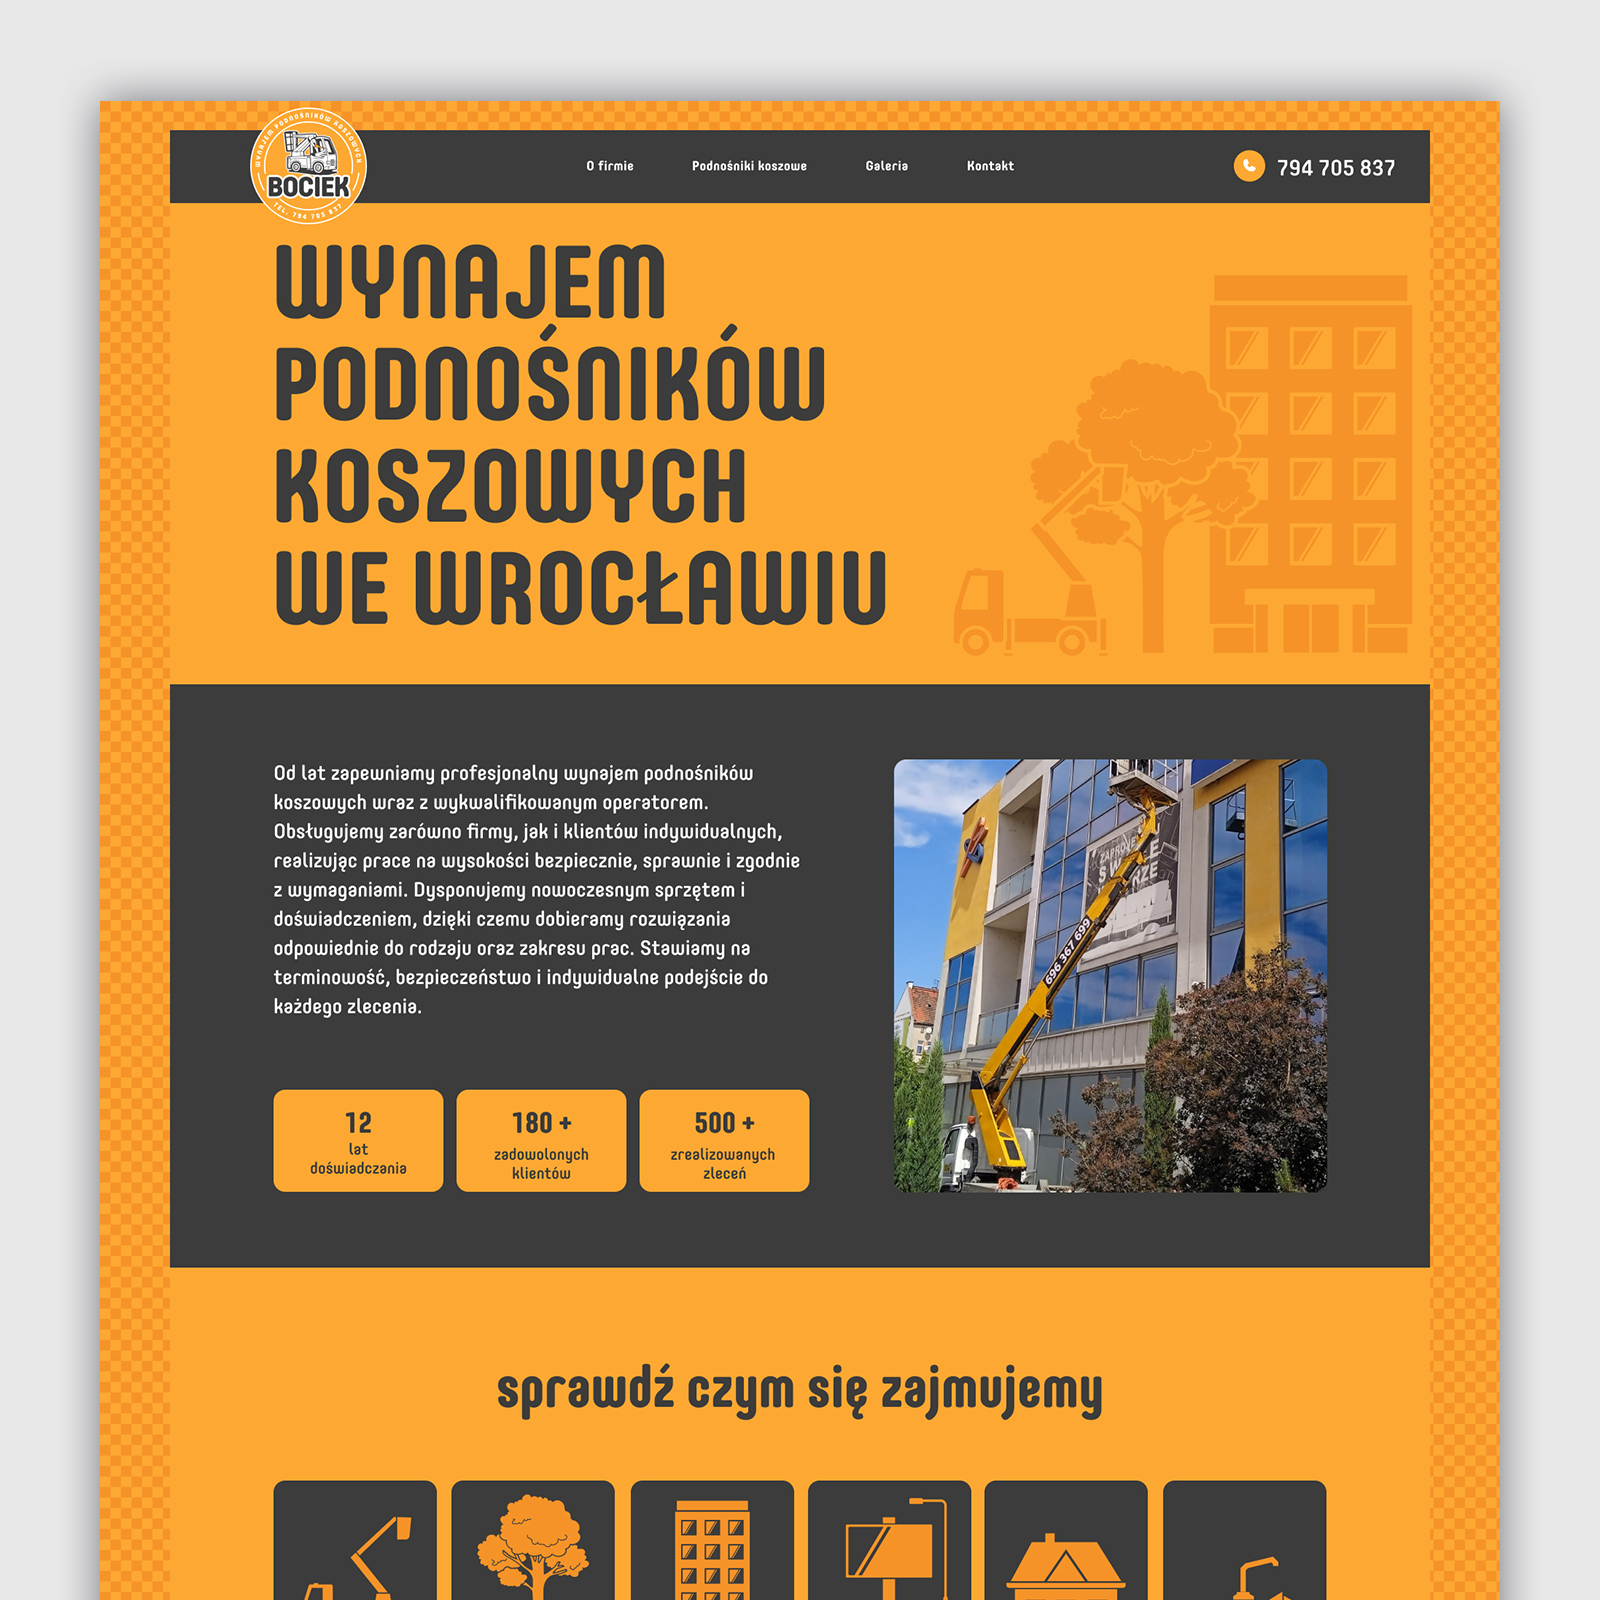
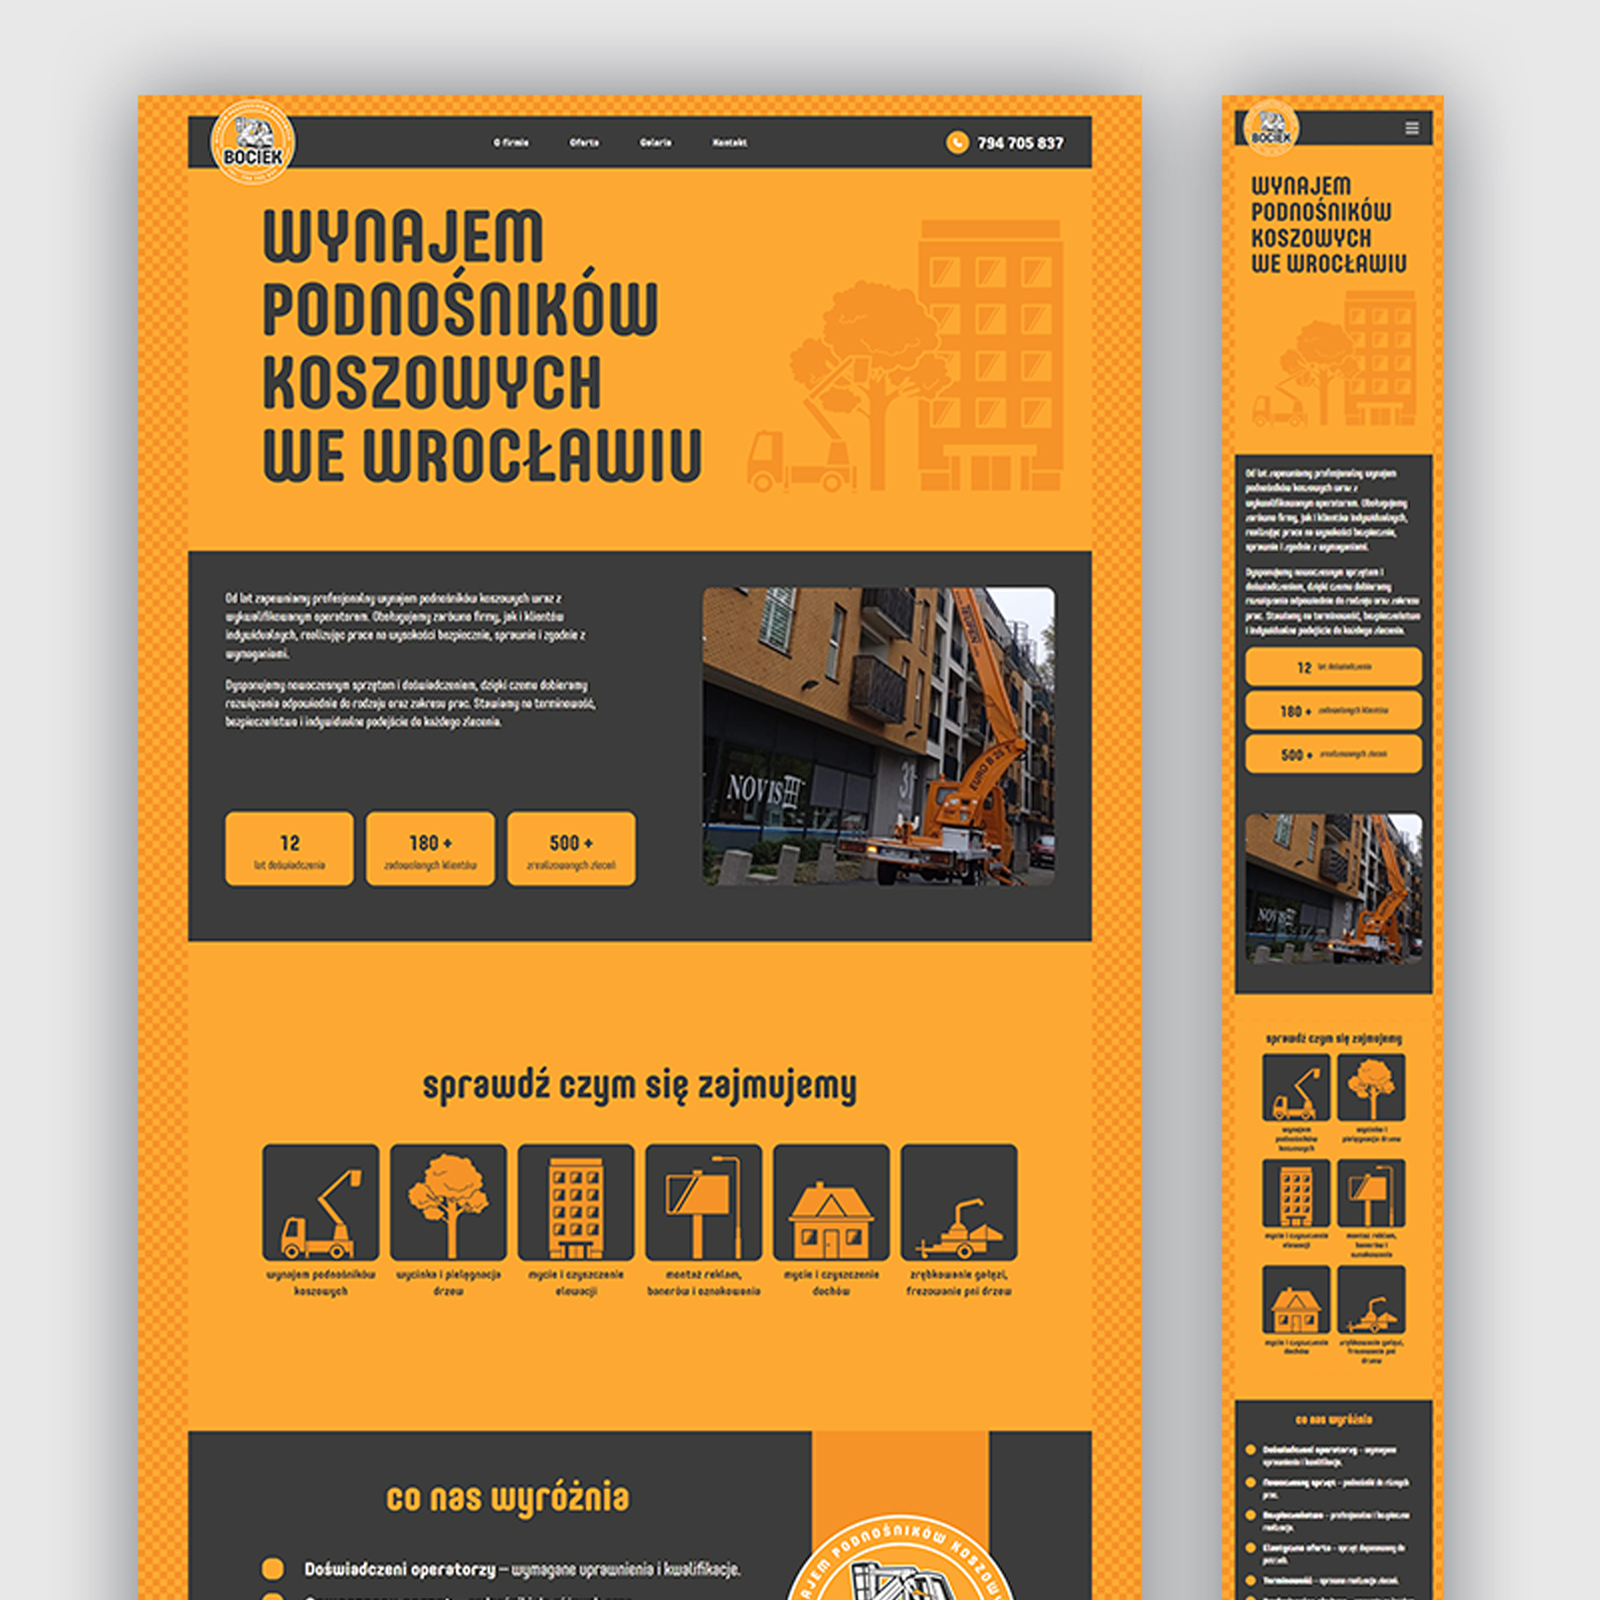
podnośnik koszowy: usunięty kafel #5, aktualizacja grafik; PRD v2.1

diff --git a/js/projects.js b/js/projects.js
@@ -47,7 +47,7 @@ window.PROJECTS = [
     desc: "Przygotowanie kompleksowej identyfikacji wizualnej oraz serwisu internetowego dla firmy eneon, działającej w obszarze inteligentnej energetyki. Projekt obejmował opracowanie logo, materiałów brandingowych, opakowań i druków firmowych oraz zaprojektowanie strony internetowej prezentującej ofertę i produkty marki. Całość buduje spójny, nowoczesny wizerunek łączący ekologię z technologią.",
     desc_en: "Development of a complete visual identity and website for eneon, a company operating in the field of intelligent energy. The project covered logo design, branding materials, packaging and corporate print, as well as a website presenting the brand's offer and products. Together it builds a consistent, modern image combining ecology with technology." },
   { id: 10, img: "images/podnosnik-koszowy/miniatura.jpg", year: "2026", layout: "podnosnik",
-    gallery: ["images/podnosnik-koszowy/1.jpg", "images/podnosnik-koszowy/2.jpg", "images/podnosnik-koszowy/3.jpg", "images/podnosnik-koszowy/4.jpg", "images/podnosnik-koszowy/5.jpg"],
+    gallery: ["images/podnosnik-koszowy/1.jpg", "images/podnosnik-koszowy/2.jpg", "images/podnosnik-koszowy/3.jpg", "images/podnosnik-koszowy/4.jpg"],
     title: "podnośnik koszowy",   tag: "Identyfikacja i one-pager", role: "Branding, DTP, Web", klient: "BOCIEK",
     title_en: "aerial work platform",      tag_en: "Brand identity & one-pager", role_en: "Branding, DTP, Web", klient_en: "BOCIEK",
     desc: "Projekt identyfikacji wizualnej dla firmy BOCIEK (wynajem podnośników koszowych) — obejmujący logo, materiały drukowane oraz serwis internetowy w formie one-pagera. Całość buduje spójny, rozpoznawalny wizerunek marki, łącząc energetyczną kolorystykę z czytelnym, nowoczesnym layoutem.",

diff --git a/PRD.md b/PRD.md
@@ -1,6 +1,6 @@
 # PRD — Portfolio graficzne 2 (Tomasz Michalik)
 
-**Dokument wymagań produktowych** · wersja 2.0 · status: live (uzupełnianie projektów)
+**Dokument wymagań produktowych** · wersja 2.1 · status: live (uzupełnianie projektów)
 Repo: https://github.com/michaliktomasz-071/portfolio-graficzne-2 · Live: https://portfolio-graficzne-2.vercel.app/
 
 > Projekt jest **klonem** `portfolio-graficzne` (które samo jest kopią portfolio UI/UX, repo
@@ -89,6 +89,11 @@ Wspólne zasoby: `css/styles.css`, `js/main.js`, `js/projects.js`, `favicon.svg`
   jako `<video>` w **szarym boxie** (`.gal-video`, `object-fit: contain` — klip pod social media
   bez przycinania, z szarymi marginesami). Autoodtwarzanie, wyciszony, w pętli, `playsinline`,
   z kontrolkami. Gdy pliku brak — box pokazuje etykietę „Film — wkrótce" (obsłużony błąd).
+- **Ukrywanie projektów:** `praca.html` filtruje listę przez `!p.hidden`, więc projekt z flagą
+  `hidden: true` w `projects.js` znika z nawigacji prev/next, a bezpośredni URL `?id=N` robi
+  fallback na pierwszy widoczny projekt. Do pełnego ukrycia dochodzi usunięcie kafelka ze strony
+  głównej (PL + EN). Dane projektu zostają w pliku — odwracalne (usuń flagę + przywróć kafelek).
+  Starszy wariant (Gray Lama) ukryto przez **zakomentowanie** wpisu — oba sposoby współistnieją.
 
 ### 6.3 O mnie / Kontakt
 - `o-mnie.*`: lewy panel (menu, tagi umiejętności, fakty) + prawa kolumna (zdjęcie + bio).
@@ -104,24 +109,35 @@ Wspólne zasoby: `css/styles.css`, `js/main.js`, `js/projects.js`, `favicon.svg`
 Każdy projekt: `id`, `img` (miniatura), `year`, `layout`, `gallery[]` lub tryb cover,
 dwujęzyczne `title/tag/role/klient/desc` (+ `*_en`), opcjonalnie `link` + `linkLabel(_en)`.
 
+Kolejność w pliku ≠ kolejność id — kafelki na stronie głównej i nawigacja biorą projekty
+z tablicy w kolejności jej zapisu.
+
 | id | Projekt | Tag | Tryb / układ | Uwagi |
 |---|---|---|---|---|
 | 1 | ruminta | Identyfikacja wizualna | galeria `ruminta` | 14 grafik |
 | 2 | trans.eu | Materiały targowe i DTP | galeria `trans` | 12 kafli + baner |
 | 3 | PITD | Raporty i publikacje | galeria `pitd` | 15 grafik |
-| 4 | ~~Gray Lama~~ | — | — | **UKRYTY** (zakomentowany w `projects.js`, brak kafelka) |
+| 4 | ~~Gray Lama~~ | — | — | **UKRYTY** (zakomentowany wpis, brak kafelka) |
 | 7 | **malamut** | Social media i film AI | galeria `malamut` (6 el.) | **film** w boxie #4; klej polimerowy |
-| 8 | **salon masażu** | Identyfikacja i strona www | galeria `salon` | **link** do masazbartoszburcon.pl |
-| 5 | VetAnima | Identyfikacja i opakowania | galeria `vetanima` | 12 grafik |
-| 6 | Logotypy | Projektowanie logo | galeria `logo` (bento) | kafel ikona→logo na hover |
+| 8 | **salon masażu** | Identyfikacja i strona www | galeria `salon` (6 el.) | **link** do masazbartoszburcon.pl |
+| 9 | ~~eneon~~ | Identyfikacja i strona www | galeria `eneon` (5 el.) | **UKRYTY** (flaga `hidden`) |
+| 10 | **podnośnik koszowy** | Identyfikacja i one-pager | galeria `podnosnik` (5 el.) | marka BOCIEK (wynajem podnośników, Wrocław) |
+| 5 | ~~VetAnima~~ | Identyfikacja i opakowania | galeria `vetanima` | **UKRYTY** (flaga `hidden`) |
+| 6 | Logotypy | Projektowanie logo | galeria `logo` (bento) | **24 kafle**, ikona→logo na hover |
 
 - **malamut** — kampania social media kleju polimerowego: film reklamowy (narzędzia AI) +
-  posty/grafiki. Układ 6 kafli (jak początek `trans`): #1/#2 w słupku, #3 i film (#4) jako duże
-  pola 2×2, #5/#6 mniejsze.
+  posty/grafiki. Na potrzeby kampanii stworzono bohatera marki (pies-budowlaniec / złota rączka)
+  jako spójną bazę wizualną dla materiałów AI. Układ 6 kafli (jak początek `trans`): #1/#2
+  w słupku, #3 i film (#4) jako duże pola 2×2, #5/#6 mniejsze.
 - **salon masażu** — identyfikacja studia masażu Bartosz Burcon: logo, materiały drukowane,
-  strona www (przygotowana z użyciem AI). Układ: #1 (logo) + #2 (voucher) + #7 (ulotki) jako
-  małe kwadraty w lewej kolumnie; sekcje strony www (#3–#5) jako jednolita kolumna dociągnięta
-  do prawej krawędzi. Aktywny link „Zobacz stronę ↗".
+  strona www (z użyciem AI). Układ: #1 (logo) + #2 (voucher) + #7 (ulotki) jako małe kwadraty
+  w lewej kolumnie; sekcje strony www (#3–#5) jako kolumna dociągnięta do prawej. Aktywny link.
+- **eneon** *(ukryty)* — identyfikacja i strona www firmy z branży inteligentnej energetyki
+  (logo, opakowania, branding, mockupy strony). Układ `eneon` (klon salon, 5 el.).
+- **podnośnik koszowy** — identyfikacja marki **BOCIEK** (wynajem podnośników koszowych):
+  logo, materiały drukowane (ulotki) i serwis www w formie **one-pagera**. Układ `podnosnik`
+  (klon salon, 5 el.): #1/#2 małe kwadraty (logo, ulotki), #3 duży (hero), #4/#5 pełna szerokość
+  (sekcje strony). Źródła `*.psd` trzymane w folderze (gitignore).
 
 ## 8. Dwujęzyczność (PL / EN)
 
@@ -131,9 +147,10 @@ dwujęzyczne `title/tag/role/klient/desc` (+ `*_en`), opcjonalnie `link` + `link
 
 ## 9. Zasoby graficzne
 
-- `images/<projekt>/` — miniatura + grafiki galerii (np. `images/malamut/`, `images/salon-masazu/`).
+- `images/<projekt>/` — miniatura + grafiki galerii (np. `images/malamut/`, `images/salon-masazu/`,
+  `images/eneon/`, `images/podnosnik-koszowy/`, `images/logo/ikona/` + `images/logo/logo/`).
 - Film: `images/malamut/4.mp4` (klip pionowy 9:16, ~30 MB — kandydat do kompresji).
-- Źródła `*.psd` i pliki robocze: w `.gitignore`, nie publikowane.
+- Źródła `*.psd` i pliki robocze: w `.gitignore`, nie publikowane (np. `podnosnik-koszowy/*.psd`).
 - `assets/` — CV (`CV Tomasz Michalik.pdf`).
 
 ## 10. Dostępność i wydajność
@@ -150,20 +167,26 @@ dwujęzyczne `title/tag/role/klient/desc` (+ `*_en`), opcjonalnie `link` + `link
 - **Każdy `git push` do `main` = automatyczny re-deploy.**
 - `vercel.json` → `cleanUrls` (adresy bez `.html`).
 - Live: https://portfolio-graficzne-2.vercel.app/ (opcjonalnie: własna domena w Settings → Domains).
+- ⚠ **Znany problem:** Vercel bywa, że **pomija deploy** niektórych commitów. Przyczyna:
+  Settings → Build and Deployment → Root Directory → **„Skip deployments when there are no changes
+  to the root directory"** = Enabled. Zalecane: **wyłączyć** tę opcję (wtedy każdy push się wdraża).
+  Doraźny workaround: pusty commit re-trigger (`git commit --allow-empty` + push).
 
 ## 12. Status — co już działa
 
 ✅ Osobne publiczne repo + wdrożenie na Vercel (auto-deploy), własny adres
 ✅ Komplet widoków (Start, Projekt, O mnie, Kontakt) w PL i EN
-✅ Projekty **malamut** (z filmem AI) i **salon masażu** (z linkiem do strony klienta)
-✅ Gray Lama ukryta; nowe układy galerii per-projekt
+✅ Projekty **malamut** (film AI), **salon masażu** (link) i **podnośnik koszowy / BOCIEK** (one-pager)
+✅ Mechanizm ukrywania projektów (flaga `hidden` + filtr): ukryte Gray Lama, VetAnima, eneon
+✅ Nowe układy galerii per-projekt (klony: `malamut`, `salon`, `eneon`, `podnosnik`); logo = 24 kafle
 ✅ Obsługa **filmu w galerii** (box na szarym tle) i **aktywnego linku** projektu
 ✅ Galeria prac z hover · spis treści projektu z kotwicami · mockup laptopa + slideshow
 ✅ Reflektor/siatka pod kursorem · przełącznik języka
 
 ## 13. Dalsze kroki (roadmapa)
 
-- 🖼 Uzupełnianie pozostałych projektów realnymi grafikami i treścią.
+- 🖼 Uzupełnianie projektów realnymi grafikami (np. podnośnik koszowy #6 — jest `6.psd`).
+- ⚙ **Wyłączyć na Vercelu** „Skip deployments when there are no changes…" (sekcja 11).
 - 🎬 **Kompresja `4.mp4`** (~30 MB) dla szybszego ładowania malamut.
 - 🔗 Opcjonalnie: aktywne linki (`link`) także w innych projektach (np. malamut).
 - 🌐 Opcjonalnie: własna domena, tryb ciemny, formularz kontaktowy (bez bazy).
